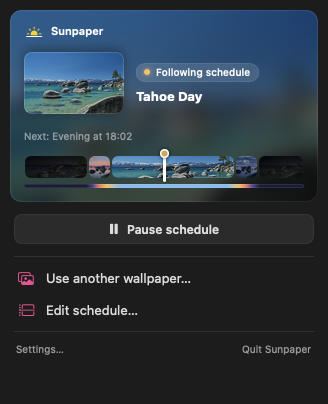
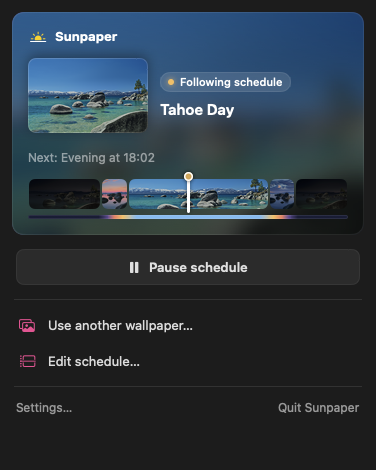
Document Retry recovery and refresh screenshots
- Explain that Retry restores a retained cover first, and how display
  changes affect recovery.
- Re-render screenshots for the larger menu bar popover.
- Resolve the day ribbon over the same two-day window as the scheduler.
- Update the test baseline to 218.

diff --git a/Sunpaper/Views/SunpaperDesignSystem.swift b/Sunpaper/Views/SunpaperDesignSystem.swift
@@ -357,7 +357,7 @@ struct DayRibbonModel {
 
         // Solar offsets can move a change into an adjacent calendar day. Resolve
         // those anchor days too, and use the actual preceding change at midnight.
-        let marks = [-1, 0, 1].flatMap { offset -> [(slot: TimeSlot, time: Date)] in
+        let marks = (-2...2).flatMap { offset -> [(slot: TimeSlot, time: Date)] in
             guard let anchorDay = Calendar.current.date(byAdding: .day, value: offset, to: date) else { return [] }
             return controller.slots.filter { $0.isEnabled && $0.source != .none }
                 .compactMap { slot in controller.resolvedTime(for: slot.trigger, on: anchorDay).map { (slot: slot, time: $0) } }

diff --git a/CONTRIBUTING.md b/CONTRIBUTING.md
@@ -15,8 +15,8 @@ xcodebuild build -project Sunpaper.xcodeproj -scheme Sunpaper \
   -configuration Release -derivedDataPath build/release-check CODE_SIGNING_ALLOWED=NO
 ```
 
-These commands produce local, unsigned verification builds. The September 12,
-2026 baseline is **182 passing unit tests** and a successful Release build.
+These commands produce local, unsigned verification builds. The October 2,
+2026 baseline is **218 passing unit tests** and a successful Release build.
 Tests inject wallpaper services, timers, and display state; they do not change
 the real desktop. A passing build or local launch is not a live handoff test.
 
@@ -113,9 +113,13 @@ again after blending before removing covers.
 On failure, restore the exact pre-change `Index.plist` and verify the previous
 appearance under cover. Failed restoration retains the cover and exposes
 **Restore desktop**, without leaving a permanent polling loop. Resolve any
-retained cover before another change, even with smoothing off. An uncovered
-restoration failure must not claim a cover exists. Quit waits for pending work
-and asks before discarding a retained recovery cover.
+retained cover before another change, even with smoothing off: **Retry**
+restores first, then retries the change. Covers fit only the display layout
+they were captured for. After a display change they can't be verified, so
+recovery removes them and restores uncovered. Display changes settle for two
+seconds, then retry a retained recovery once before reconciling the schedule.
+An uncovered restoration failure must not claim a cover exists. Quit waits for
+pending work and asks before discarding a retained recovery cover.
 
 ### Validation limits
 

diff --git a/README.md b/README.md
@@ -106,9 +106,10 @@ an Apple aerial, and reopen Sunpaper. Missing selected aerials are downloaded
 when needed. A row's **Download again** fetches a fresh copy without discarding
 the working file until replacement succeeds.
 
-If a change fails, use **Retry** after addressing the reported problem. Missing
-screen capture access doesn't block changes; they happen without smoothing
-until you allow access and choose **Quit & Reopen** in Settings. Use
+If a change fails, use **Retry** after addressing the reported problem. If the
+failed change left the previous picture covering your desktop, Retry restores it
+first. Missing screen capture access doesn't block changes; they happen without
+smoothing until you allow access and choose **Quit & Reopen** in Settings. Use
 **Restore desktop** if it appears after a failed recovery.
 
 If your saved settings can't be read, Sunpaper starts from defaults and keeps
